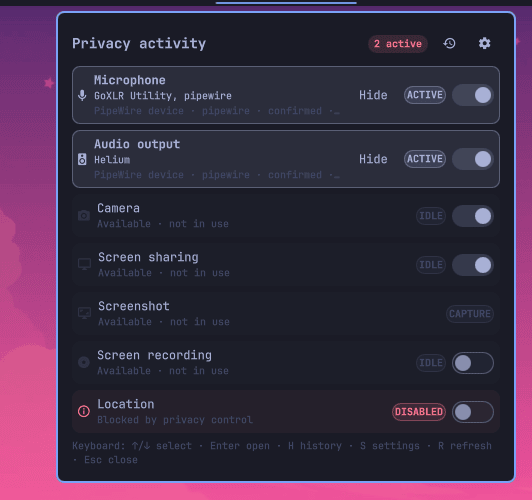
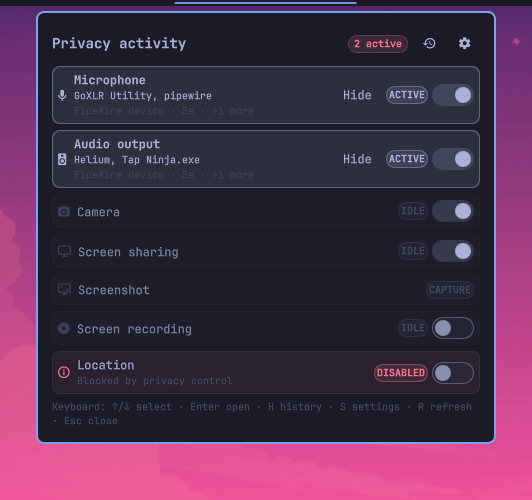
docs: refresh responsive UI screenshots

diff --git a/README.md b/README.md
@@ -13,30 +13,30 @@ screenshots, and screen recording.
 Contributors: [contributing guide](CONTRIBUTING.md) ·
 [architecture](ARCHITECTURE.md) · [security policy](SECURITY.md)
 
-![Privacy Devices activity panel showing live device state and controls](preview.png?v=59ac2378a1ce)
+![Privacy Devices activity panel showing live device state and controls](preview.png?v=e0db88755d75)
 
 The widget occupies only its privacy-device indicators in the center bar:
 
-![Privacy Devices indicators in their exact bar footprint](docs/bar.png?v=6182f50ea001)
+![Privacy Devices indicators in their exact bar footprint](docs/bar.png?v=6970740d94cc)
 
 Activity notifications use the detected application icon when available:
 
-![Privacy Devices notification with an application icon](docs/notification.png?v=a1d96eb8ea28)
+![Privacy Devices notification with an application icon](docs/notification.png?v=490627fdf09d)
 
 <details>
 <summary>Settings pages</summary>
 
 | General | Appearance |
 | --- | --- |
-| <img src="docs/general.png?v=d444f5307657" alt="General settings page" width="360"> | <img src="docs/appearance.png?v=5a5f6857b502" alt="Appearance settings page" width="360"> |
+| <img src="docs/general.png?v=0e572b3c8333" alt="General settings page" width="360"> | <img src="docs/appearance.png?v=efa2fa6cc913" alt="Appearance settings page" width="360"> |
 | Alerts | Monitoring |
-| <img src="docs/alerts.png?v=453e4b782722" alt="Alerts settings page" width="360"> | <img src="docs/monitoring.png?v=632695c0ede7" alt="Monitoring settings page" width="360"> |
+| <img src="docs/alerts.png?v=4b7927e60cc8" alt="Alerts settings page" width="360"> | <img src="docs/monitoring.png?v=ebb5b6e49b6b" alt="Monitoring settings page" width="360"> |
 | Private data | Observer health |
-| <img src="docs/monitoring-private.png?v=7169d1760550" alt="Private history and settings transfer controls" width="360"> | <img src="docs/monitoring-health.png?v=229b9fff0143" alt="Monitoring status and observer health" width="360"> |
+| <img src="docs/monitoring-private.png?v=c4390900cc7e" alt="Private history and settings transfer controls" width="360"> | <img src="docs/monitoring-health.png?v=04cecd292234" alt="Monitoring status and observer health" width="360"> |
 | Individual device settings | Activity history |
-| <img src="docs/device.png?v=a626cf21e356" alt="Individual privacy-device settings page" width="360"> | <img src="docs/history.png?v=a592bf419a11" alt="Completed privacy activity history view" width="360"> |
+| <img src="docs/device.png?v=3bb1fb0400d8" alt="Individual privacy-device settings page" width="360"> | <img src="docs/history.png?v=9825f32d4226" alt="Completed privacy activity history view" width="360"> |
 | History disabled | |
-| <img src="docs/history-disabled.png?v=0aea41bbd731" alt="Activity history disabled state" width="360"> | |
+| <img src="docs/history-disabled.png?v=3f4c80917b4b" alt="Activity history disabled state" width="360"> | |
 
 </details>
 
